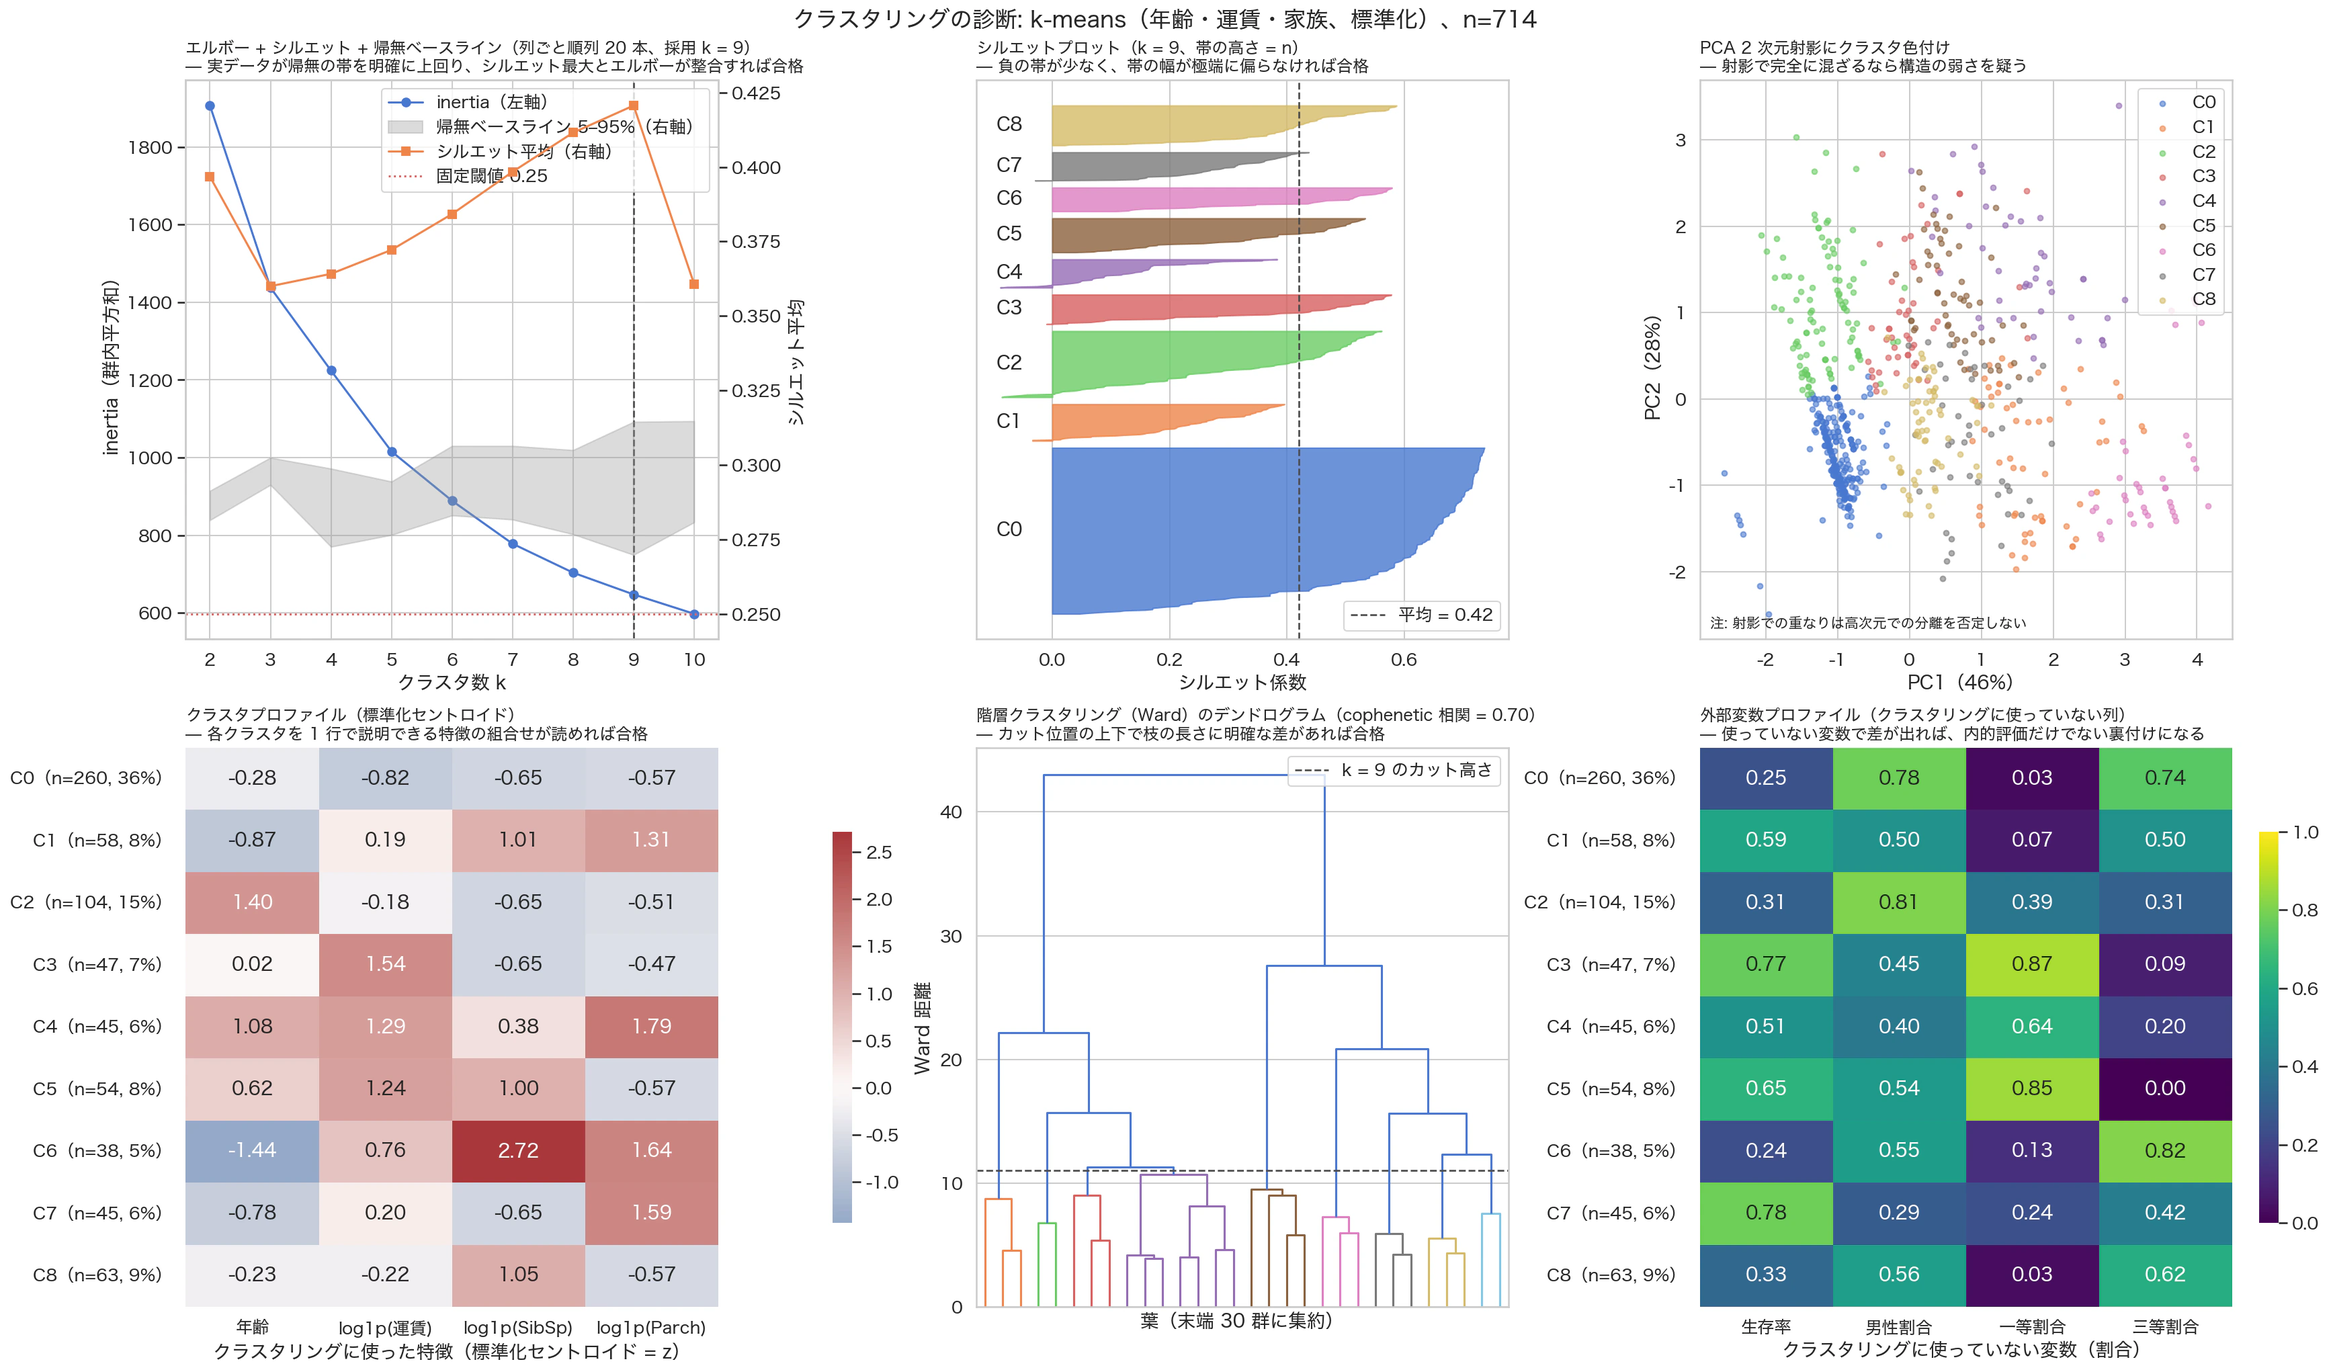
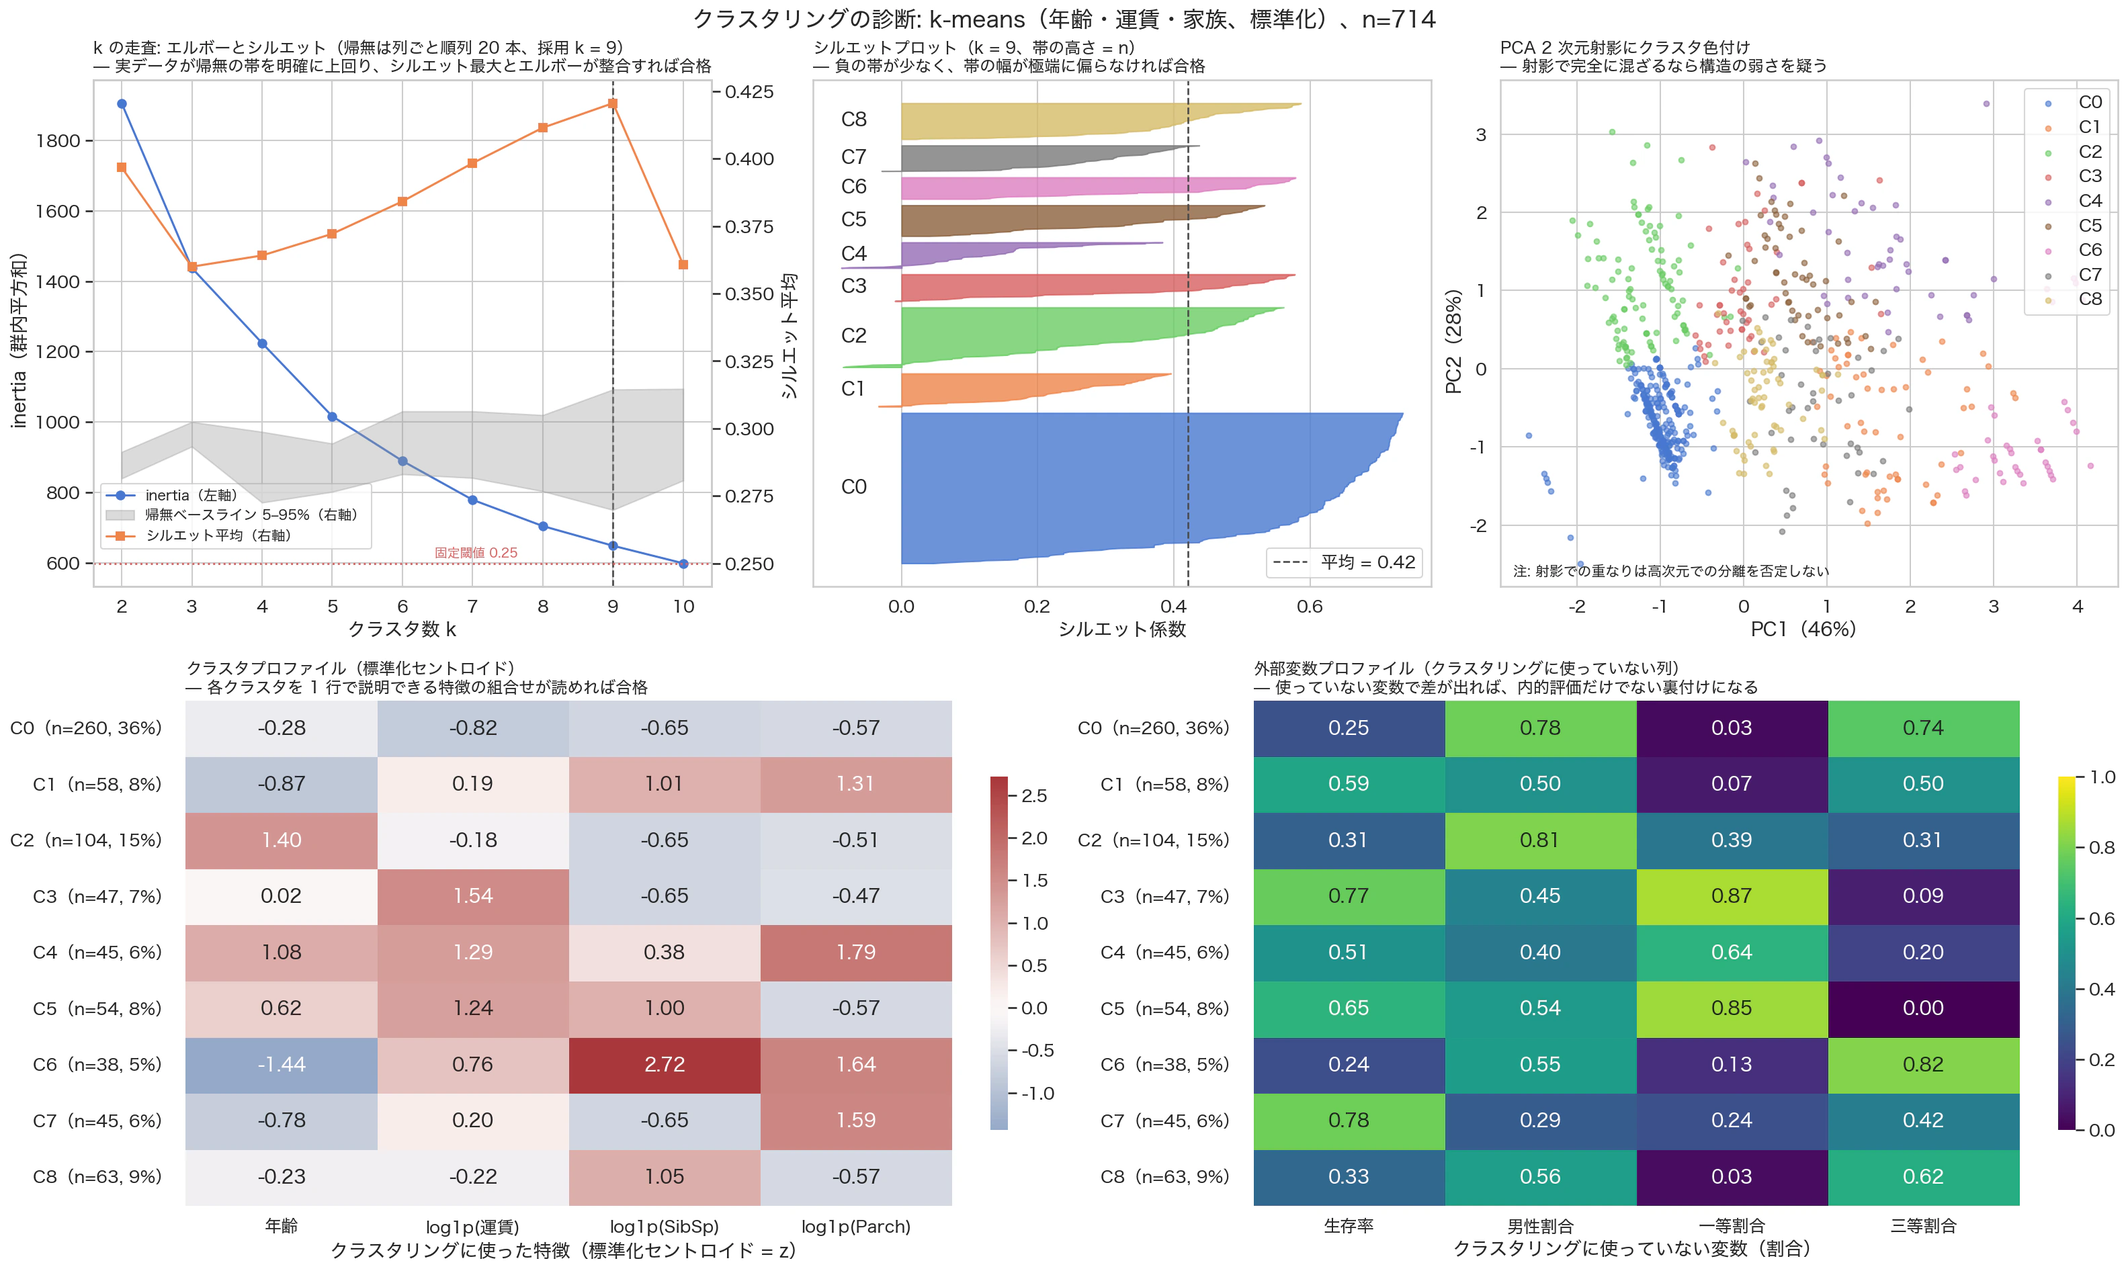
fix: クラスタリングの図を指し変え

diff --git a/docs/gallery/index.html b/docs/gallery/index.html
@@ -947,37 +947,38 @@
         <div class="method__head">
           <div class="method__titleline">
             <span class="method__num">13</span>
-            <h3>クラスタリング（k-means・Ward）</h3>
+            <h3>クラスタリング（k-means）</h3>
             <code class="method__ref">references/clustering.md</code>
           </div>
           <div class="method__meta">
             <dl>
               <dt>題材</dt>
-              <dd>年齢・log1p(運賃)・log1p(SibSp)・log1p(Parch) を標準化して k-means と Ward 法（n = 714、p = 4）</dd>
+              <dd>年齢・log1p(運賃)・log1p(SibSp)・log1p(Parch) を標準化して k-means（n = 714、p = 4）</dd>
               <dt>判定</dt>
-              <dd><span class="badge badge--ok">OK 7</span> <span class="badge badge--check">確認 1</span></dd>
+              <dd><span class="badge badge--ok">OK 6</span> <span class="badge badge--check">確認 1</span></dd>
             </dl>
           </div>
         </div>
         <div class="method__body">
           <figure class="fig">
             <a class="fig__frame" data-figure href="figures/cluster/cluster_diagnostics.webp"
-               data-caption="クラスタリングの診断 6 パネル">
-              <img src="figures/cluster/cluster_diagnostics.webp" width="3466" height="2042" loading="lazy" decoding="async"
-                   alt="クラスタリングの診断 6 パネル。エルボーとシルエットと帰無ベースラインの帯、シルエットプロット、PCA 射影、標準化セントロイドのヒートマップ、デンドログラム、外部変数プロファイル">
+               data-caption="クラスタリングの診断 5 パネル">
+              <img src="figures/cluster/cluster_diagnostics.webp" width="3167" height="1892" loading="lazy" decoding="async"
+                   alt="クラスタリングの診断 5 パネル。エルボーとシルエット平均と帰無ベースラインの帯、シルエットプロット、PCA 射影、標準化セントロイドのヒートマップ、外部変数プロファイル">
             </a>
             <figcaption>
               <span class="fig__file">cluster_diagnostics.png</span>
-              エルボー + シルエット + 帰無ベースライン（列ごと順列 20 本の 5〜95% を灰色の帯で重ねたもの）、シルエットプロット、
-              PCA 2 次元射影、標準化セントロイド、デンドログラム、クラスタリングに使っていない変数でのプロファイル。
+              手法によらず出す 4 パネル（シルエットプロット、PCA 2 次元射影、標準化セントロイド、クラスタリングに使っていない変数でのプロファイル）に、
+              使った手法の k の根拠を 1 枚足した構成。k-means ではエルボー（inertia）とシルエット平均の走査で、列ごと順列 20 本の帰無ベースライン
+              （5〜95% を灰色の帯）と比べる。デンドログラムは階層クラスタリングを使ったときだけ足す。
             </figcaption>
           </figure>
           <div class="verdicts">
             <p class="verdicts__title">診断サマリーから</p>
             <ul>
               <li><span class="badge badge--ok">OK</span><span>シルエット平均 0.42（k = 9）に対し帰無 95% = 0.31</span></li>
-              <li><span class="badge badge--ok">OK</span><span>安定性 ARI: seed 5 本 0.96 / 80% サブサンプル 0.93 / Ward との一致 0.80</span></li>
-              <li><span class="badge badge--ok">OK</span><span>各クラスタの n は 5.3%〜36%、cophenetic 相関 0.70、n_init = 20</span></li>
+              <li><span class="badge badge--ok">OK</span><span>安定性 ARI: seed 5 本 0.96 / 80% サブサンプル 0.93</span></li>
+              <li><span class="badge badge--ok">OK</span><span>各クラスタの n は 5.3%〜36%、n_init = 20、seed 固定</span></li>
               <li><span class="badge badge--check">確認</span><span>帰無との差が k によらずほぼ一定（0.106〜0.107）<span class="v-next">GMM の BIC でも比較し、運用可能な数から人が決める</span></span></li>
             </ul>
           </div>

diff --git a/.claude/skills/unsupervised-eda-diagnostics/references/clustering.md b/.claude/skills/unsupervised-eda-diagnostics/references/clustering.md
@@ -12,27 +12,40 @@
 - scikit-learn（`KMeans(n_init=20)`、`silhouette_score` / `silhouette_samples`、`adjusted_rand_score`、`GaussianMixture(...).bic`）
 - scipy.cluster.hierarchy（`linkage`、`dendrogram`、`cophenet`、`fcluster`）。カテゴリ混在なら kmodes（k-prototypes）か Gower 距離。未導入なら `uv add scikit-learn`
 
-## 必ず出す図（1 枚 5 パネル）
+## 必ず出す図（共通 4 パネル + 粒度の根拠 1〜2 パネル）
 
-- エルボー（inertia）+ シルエット平均を k = 2〜10（既定。k が指定されている場合はその値を含む範囲）で走査し、**列ごと順列データのシルエット（帰無ベースライン）の帯を同じ軸に重ねる**（採用した k に縦破線） — 実データの曲線が帯を明確に上回り、シルエット最大とエルボーの折れ点が整合すれば合格
-- シルエットプロット（サンプル別、クラスタごとに帯。平均に縦破線） — 負の帯が少なく、帯の幅（n）が極端に偏らなければ合格
+共通（手法によらず出す 4 パネル）。階層はデンドログラムをカットした後（`fcluster`）のラベル、DBSCAN はノイズを除いたラベルで同じものを出す:
+
+- シルエットプロット（サンプル別、クラスタごとに帯。平均に縦破線） — 負の帯が少なく、帯の幅（n）が極端に偏らなければ合格。DBSCAN はノイズ点を除いて描き、除いた割合を図に書く。ユークリッド以外の距離（Gower・マンハッタン）でクラスタリングしたなら距離行列を渡す（`silhouette_score(D, labels, metric="precomputed")`）。クラスタリングと違う距離で評価しない
 - PCA 2 次元射影にクラスタ色付け — 「射影の重なりは高次元での分離を否定しない」と注記。射影で完全に混ざるなら構造の弱さを疑う
-- クラスタプロファイル（標準化セントロイドのヒートマップ、各クラスタの n を併記） — 各クラスタを 1 行で説明できる特徴の組合せが読めれば合格
+- クラスタプロファイル（標準化セントロイドのヒートマップ、各クラスタの n を併記） — 各クラスタを 1 行で説明できる特徴の組合せが読めれば合格。セントロイド＝クラスタ内平均は k-means では手法の定義そのものだが、階層・DBSCAN では**後付けの要約**なので、鎖状・非凸のクラスタや外れ値を含むクラスタでは中央値 + IQR（または特徴ごとの分布の重ね描き）も併記する
 - 外部変数プロファイル（クラスタリングに**使わなかった**列との集計。目的変数があればその平均も） — 使っていない変数で差が出れば、内的評価だけでない裏付けになる。差がなければクラスタの業務的な意味は主張できない
-- 階層: デンドログラム（カット高さに水平破線） — カット位置の上下で枝の長さに明確な差があれば合格
+
+粒度（k・カット高さ・eps）の根拠に出す図は手法で違う。**使った手法の行だけ**を出す。走査図には**同じ手法を列ごと順列データに当てた帰無ベースラインの帯**（20 本）を同じ軸に重ね、採用した値に破線を引く:
+
+| 使った手法 | 粒度の根拠に出す図 | 合格の読み方 |
+|---|---|---|
+| k-means / k-medoids | エルボー（inertia）+ シルエット平均を k = 2〜10（既定。k が指定されている場合はその値を含む範囲）で走査 | 実データのシルエットが帰無の帯を明確に上回り、シルエット最大とエルボーの折れ点が整合する |
+| GMM | BIC（+ AIC）+ シルエット平均の k 走査。inertia が無いのでエルボーは描かない | BIC 最小が、帰無の帯を上回るシルエットの k と整合する。非球状クラスタではシルエットが不利に出るので、食い違うなら BIC を主にして理由を書く |
+| 階層 | デンドログラム（カット高さに水平破線）+ `fcluster` で k ごとにラベルを作ったシルエット平均の走査 | カット位置の上下で枝の長さに明確な差があり、デンドログラムとシルエット走査が同じ k を指す |
+| DBSCAN / HDBSCAN | k-距離プロット（`min_samples` 番目の近傍距離を昇順に並べ、採用 eps に水平破線）+ eps を振ったときのクラスタ数とノイズ率 | 折れ点が読め、eps の小さな変化でクラスタ数・ノイズ率が急変しない |
+
+k が走査の対象にならない DBSCAN では、帰無比較は「同じ eps・min_samples を順列データに当てたときのクラスタ数とノイズ率」で行う。
+複数の手法を比べたなら該当行を全部出す（例: k-means + 階層なら共通 4 + k 走査 + デンドログラムの 6 パネル）。そのときは手法間のラベル一致（ARI）も値として報告する。
 
 ## 必ず出す値
 
 | 項目 | 合格基準 | 違反時の対処 |
 |---|---|---|
 | スケーリングの方針 | 方針と理由が報告にある（単位が混在 → 標準化、全列が同一単位で分散差が情報 → 素のまま） | 歪み・外れ値が理由なら標準化では直らない。log1p か `RobustScaler` を先に使う |
-| 採用した k とその根拠 | シルエット最大とエルボーが整合、または業務要件で指定された k だと明記 | GMM なら BIC 最小、DBSCAN なら k-距離プロットの折れ点 |
-| 帰無ベースライン（列ごと順列 20 本）のシルエット | 実データが帰無の 95 パーセンタイルを超える | 超えないなら「この特徴量では構造なし」と結論する。k を増やして値を上げない |
-| シルエット平均 | > 0.25 目安（> 0.5 で明瞭）。固定閾値より上の帰無比較が主 | 全 k で低いなら手法（GMM / DBSCAN）かクラスタ構造の不在を疑う |
+| 採用した粒度（k / カット高さ / eps）とその根拠 | 使った手法の指標で書く（k-means: シルエット最大とエルボーの整合、GMM: BIC 最小、階層: カット高さ、DBSCAN: k-距離の折れ点と `min_samples`）。業務要件で指定された値ならそう明記 | 指標が割れるなら両方の値を並べ、どちらを採用したかを理由付きで書く |
+| 帰無ベースライン（列ごと順列 20 本に同じ手法を当てる） | 実データのシルエットが帰無の 95 パーセンタイルを超える（DBSCAN はクラスタ数・ノイズ率で比較） | 超えないなら「この特徴量では構造なし」と結論する。k を増やして値を上げない |
+| シルエット平均 | > 0.25 目安（> 0.5 で明瞭）。固定閾値より上の帰無比較が主。DBSCAN はノイズ点を除いて計算し、ノイズ率を併記 | 全 k で低いなら手法（GMM / DBSCAN）かクラスタ構造の不在を疑う |
 | 各クラスタの n（割合） | 極小クラスタ（< 5%）に注記 | k 削減、外れ値処理（極小は外れ値の吹き溜まりであることが多い） |
-| 安定性（seed / サブサンプル間の ARI） | > 0.7 目安 | 不安定なら報告し k・手法を再考。運用ルールにしない |
+| 安定性（seed / サブサンプル / 手法間の ARI） | > 0.7 目安（階層・DBSCAN は決定的なので seed ではなくサブサンプルで見る） | 不安定なら報告し k・手法を再考。運用ルールにしない |
 | 階層: cophenetic 相関 | > 0.7 目安 | linkage（ward / average / complete）を変更 |
-| `n_init` と `random_state` | `n_init ≥ 20`、seed を報告に明記 | — |
+| DBSCAN: ノイズ点の割合 | 報告に明記し、業務上許容できる水準か書く | 過半がノイズなら eps / `min_samples` を見直すか、密度ベースが不適と結論する |
+| k-means / GMM: `n_init` と `random_state` | `n_init ≥ 20`、seed を報告に明記 | 階層・DBSCAN は決定的なので不要。代わりに linkage 法、または eps と `min_samples` を明記する |
 
 取得例（`X` は数値列だけの polars DataFrame）:
 
@@ -58,9 +71,28 @@ for s in range(20):
 # 合格判定は sil[k_best - 2] > np.percentile(null_sil, 95) を報告側で読む
 ```
 
+手法を変える場合の差分（走査とその根拠だけが変わる。共通 4 パネルと安定性はそのまま）:
+
+```python
+from scipy.cluster.hierarchy import cophenet, fcluster, linkage
+from scipy.spatial.distance import pdist
+from sklearn.mixture import GaussianMixture
+from sklearn.neighbors import NearestNeighbors
+
+# 階層: linkage → fcluster でラベルを作り、同じ k 走査を回す（inertia は無いのでエルボーは描かない）
+Z = linkage(Xs, "ward")
+coph = cophenet(Z, pdist(Xs))[0]  # > 0.7 目安
+sil_h = [silhouette_score(Xs, fcluster(Z, k, "maxclust")) for k in ks]
+# GMM: BIC 最小を根拠にする（シルエットも併記して食い違いを報告する）
+bic = [GaussianMixture(k, random_state=0).fit(Xs).bic(Xs) for k in ks]
+# DBSCAN: min_samples 番目の近傍距離を昇順に並べた k-距離。折れ点が eps の候補
+kdist = np.sort(NearestNeighbors(n_neighbors=5).fit(Xs).kneighbors(Xs)[0][:, -1])
+```
+
 ## 落とし穴
 
 - k-means は球状・等サイズを仮定する。全 k でシルエットが低いなら GMM・DBSCAN・「構造がない」を疑う
+- シルエットも凸・等方なクラスタを前提にした指標なので、鎖状・非凸の構造では正しく分かれていても低く出る（two moons で single linkage は ARI 1.00 / シルエット 0.33、Ward は ARI 0.24 / シルエット 0.48）。手法・linkage の優劣をシルエットだけで決めない。同じ手法の中で k を比べる、帰無ベースラインと比べる、の 2 つに用途を限る
 - 「スケールが違う ＝ 標準化する」ではない。標準化は全変数を分散 1 に揃える＝距離への寄与を対等にする決定なので、分散の差が単位の恣意性（円・歳・回数）から来るなら揃え、分散の差そのものが情報（全列が同一単位・同一尺度。例: カテゴリ別の購買金額、同じ尺度の設問群）なら揃えない。後者で z 化すると、ほとんど動かない列のノイズが主要な列と同じ重みまで増幅される。二値ダミーの z 化も希少カテゴリの距離寄与を跳ね上げる
 - スケーリングの選び方で結論が変わるか分からないときは、両方で回して ARI を比較する。変われば「スケーリングの選択で結論が動く」こと自体が報告すべき結果で、どちらを採用したかを理由付きで書く
 - カテゴリ混在データにユークリッド距離の k-means を使わない（Gower 距離・k-prototypes）
